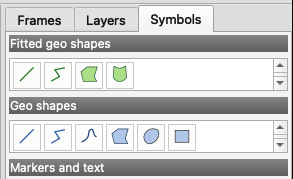
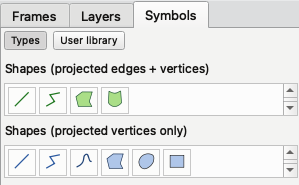
Add weather symbol docs

diff --git a/docs/metview/using_metview/ws/save_and_load.rst b/docs/metview/using_metview/ws/save_and_load.rst
@@ -1,6 +1,73 @@
-.. _save_and_load_weather_symbols:
+.. _ws_saving_and_loading:
 
-Save and load weather symbols
+Saving and loading weather symbols
 ///////////////////////////////////////////////
 
-The     
+.. note::
+
+    Saving and loading Interactive Weather Symbols was introduced in Metview 5.15.0.
+
+
+Saving individual objects
+----------------------------
+
+You can save weather symbols from Metview's plot window by selecting the given object and using the context menu:
+
+.. image:: /_static/ug/ws_saving_and_loading/context_menu_1.png
+   :width: 120px
+
+Here the **Save to user library** action will add the given object to the :ref:`User library<ws_user_library>`. The other action is **Save to disk** that will write the object to disk into a file represented by a :ref:`weather symbol icon <toc_plot_ws>` in Metview's :ref:`user interface <user_interface>`.
+
+.. note::
+
+    Both the style and the geographical location are saved for each object.
+
+
+Saving a collection
+----------------------------
+
+The context menu in the plot window also allows to save all the weather symbols in the current scene into disk as a collection. The resulting file is represented by a WS_COLLECTION icon in Metview's :ref:`user interface <user_interface>`.
+
+.. image:: /_static/WS_COLLECTION.png
+   :width: 36px
+
+
+Working with icons in the user interface
+---------------------------------------------
+
+Weather symbol icons can be directly visualised (right-click **Visualise**) or dragged into the plot. Please note that when dropping these icons into a plot they will be placed at the coordinates they store and not at the drop position!
+
+The parameters stored in the icons (with the exception of WS_COLLECTION) can all be edited using the icon editor (right-click **Edit**).
+
+
+.. _ws_user_library:
+
+The User library
+-----------------------
+
+The **User library** of weather symbols can be accessed in Metview's plot window in the sidebar under the **Symbols** tab:
+
+.. image:: /_static/ug/ws_saving_and_loading/user_library_sidebar.png
+   :width: 200px
+
+You can add the library items to the plot using two different actions:
+
+* **Add to plot at stored coord**: the item is added to the plot at the coordinate position stored in the item
+* **Add to plot as click**: the item is added to the plot at the location where we click
+
+.. image:: /_static/ug/ws_saving_and_loading/context_menu_2.png
+   :width: 200px
+
+
+Where does the User library store its items?
+----------------------------------------------
+
+The items in the User library are stored as weather symbol icons in two possible directories.
+
+The primary directory is **System/Symbols/icons** in your Metview home directory. All the items added from the plot to the User library will be placed here.
+
+You can also specify an extra directory using the **METVIEW_EXTRA_FEATURE_SYMBOLS_DIR** environment
+variable. If it is defined and it has an **icons** subdirectory its contents will be available in the User library. 
+
+When loading items **System/Symbols/icons** takes precedence over the extra directory, so if they both contain an icon with the same name the one from the extra directory will not be shown in the User library!
+

diff --git a/docs/metview/using_metview/ws/interactive_usage.rst b/docs/metview/using_metview/ws/interactive_usage.rst
@@ -1,38 +1,26 @@
 .. _how_to_use_the_weather_symbol_editor_in_metview:
 
-Weather Symbol Editor
+On screen weather symbol editing
 ///////////////////////////////////////////////
-
-.. note::
-
-    The Weather Symbol Editor was introduced in Metview 5.14.0, with   
-    further development planned for the future                         
-
-The Weather Symbol Editor is a feature that allows you to add
-annotations to Metview plots that will survive plot updates such as
-zooming, changes of projection and contouring.
-
-.. image:: /_static/ug/how_to_use_the_weather_symbol_editor_in_metview/image1.png
-   :width: 5.20833in
-   :height: 4.23958in
-
-At ECMWF you need the latest Metview version to try out the editor. The
-command to run is::
-
-    module swap metview/new    
-    metview                                                            
 
 How to start the symbol editor?
 ===============================
 
-Start uPlot by visualising something, open the sidebar and select the
+Start Metview's plot window by visualising something, open the sidebar and select the
 **Symbols** tab:
 
 .. image:: /_static/ug/how_to_use_the_weather_symbol_editor_in_metview/image2.png
    :width: 2.29167in
    :height: 1.40003in
 
-How to add a new item to the map?
+
+It contains two pages:
+
+* **Types**: shows all the symbol types that can be added to the plot
+* **User library**: provides access to the :ref:`User library <ws_user_library>` of saved weather symbols
+
+
+How to add a new item to the plot?
 =================================
 
 Just click on the item in the sidebar, the cursor changes into a cross,
@@ -191,16 +179,6 @@ projection changes and the extent is defined in pixels.
    :width: 2.9375in
    :height: 2.47917in
 
-Can I add my own symbols?
-=========================
-
-You can use any square shaped SVG or PNG file as a symbol. These have to
-be added to the **System/Symbols** folder in your Metview home
-directory. On top of that you can also use symbols from the directory
-specified by the **METVIEW_EXTRA_FEATURE_SYMBOLS_DIR** environment
-variable. When you start a uPlot window it scans these directories and
-adds all the files with .*svg or \*.png  suffix to the **Markers and
-text** group in the Symbols sidebar.
 
 How can I edit the symbols?
 ===========================
@@ -362,11 +340,6 @@ PDF_QT or PNG_QT output formats.
 
 Alternatively, just take a screenshot!
 
-Can I save the edited objects for later reuse?
-==============================================
-
-It is not possible at the moment, so you will lose all the objects when
-you close the uPlot window.
 
 How do these features behave across different time steps in the plot?
 =====================================================================

diff --git a/docs/metview/using_metview/ws/index.rst b/docs/metview/using_metview/ws/index.rst
@@ -1,16 +1,31 @@
 .. _weather_symbols:
 
-Interactive Weather Symbols
+Weather Symbol Objects
 ==================================
 
-Interactive Weather Symbols are a collection of weather symbol and annotation objects that can be interactively added to and then edited in the Metview plot window. These objects are projection aware and will survive plot updates such as
+.. note::
+
+    Weather Symbol Objects were introduced in Metview 5.14.0, with   
+    further development planned for the future   
+
+Weather Symbol Objects are a collection of weather symbols and annotations that can be interactively :ref:`added and edited in <how_to_use_the_weather_symbol_editor_in_metview>` the Metview plot window. These objects are projection aware and will survive plot updates such as
 zooming, changes of projection and contouring. 
 
-Each Interactive Weather Symbol is represented by a Metview icon (see :ref:`here <toc_plot_ws>` the full list of icons). Using the icons the symbols can be saved from the Metview plot window for later reuse. These icons can also be directly visualised or dragged into the plot window. Plotting from a script (Python or Macro) also works but it requires a Metview installation with the GUI component enabled. 
+.. image:: /_static/ug/how_to_use_the_weather_symbol_editor_in_metview/image1.png
+   :width: 5.20833in
+   :height: 4.23958in
 
+At ECMWF you need the latest Metview version to try out the Weather Symbol Objects. The
+command to run is::
+
+    module swap metview/new    
+    metview     
+
+From **Metview 5.15.0** each Weather Symbol Object is represented by a Metview icon (see the full list of icons :ref:`here <toc_plot_ws>`). Using the icons the symbols :ref:`can be saved <ws_saving_and_loading>` from the Metview plot window for later reuse. These icons can also be directly visualised or dragged into the plot window. Plotting from a script (Python or Macro) also works but it requires a Metview installation with the GUI component enabled. 
 
 .. toctree::
     :maxdepth: 1
     
     interactive_usage.rst
     save_and_load.rst
+    add_your_weather_symbol.rst

diff --git a/docs/metview/using_metview/ws/add_your_weather_symbol.rst b/docs/metview/using_metview/ws/add_your_weather_symbol.rst
@@ -1,0 +1,20 @@
+Adding your own weather symbols
+====================================
+
+You can use any square shaped SVG or PNG file to define a new Weather Symbol Object type. These images can be placed in two possible directories:
+
+* The primary directory is **System/Symbols/images** in your Metview home directory.
+
+* You can also specify an extra directory using the **METVIEW_EXTRA_FEATURE_SYMBOLS_DIR** environment variable. If it is defined and it has an **images** subdirectory its contents will be scanned for user defined images.
+
+**System/Symbols/images** takes precedence over the extra directory, so if they both contain an image with the same name the one from the extra directory will not be available as a symbol type!
+
+When you start Metview's plot window it scans these directories and
+adds all the files with .*svg or \*.png  suffix to the **Images** group in the Symbols > Types sidebar: 
+
+.. image:: /_static/ug/ws_add_your_symbol/images_group.png
+   :width: 200px
+
+.. note::
+
+    These symbols are static in a sense that you can only change their size in the plot and no styling is available for them.
